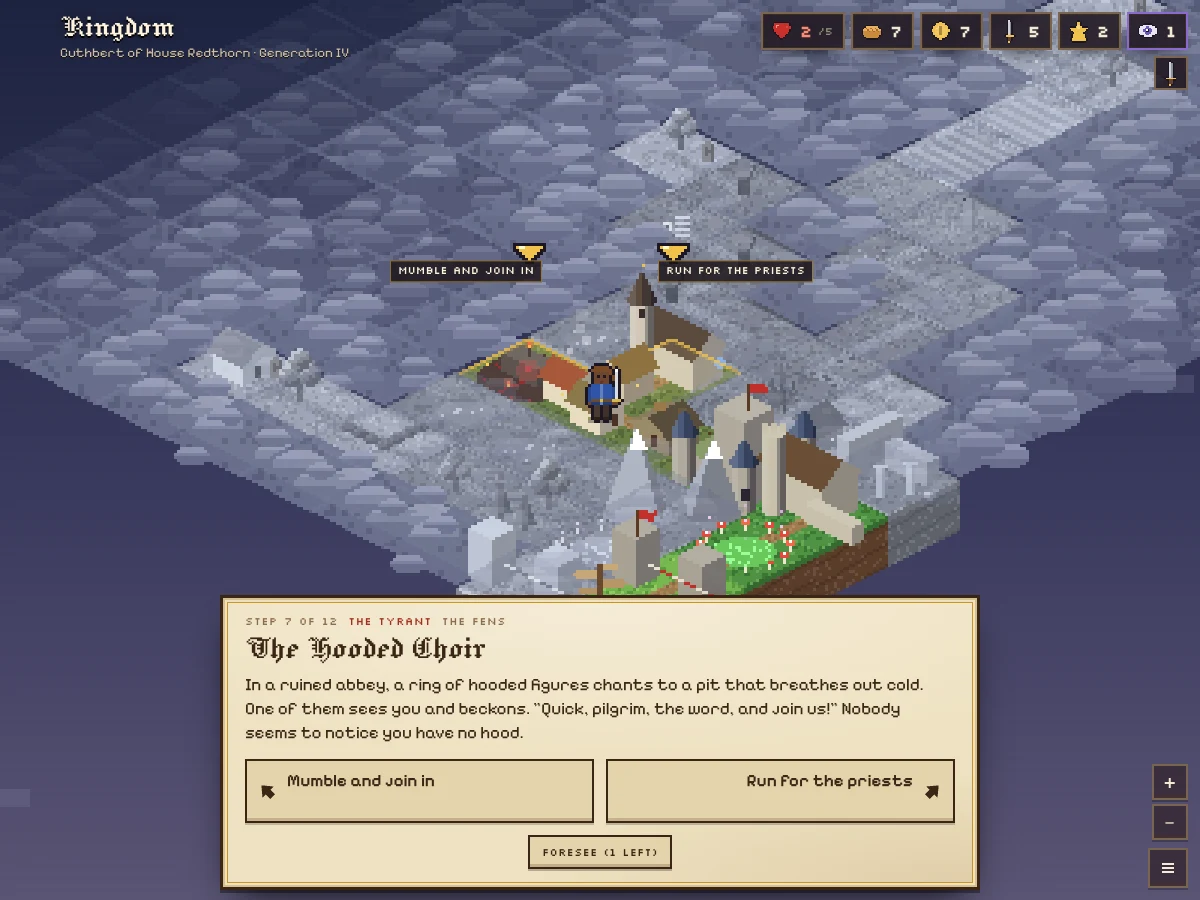
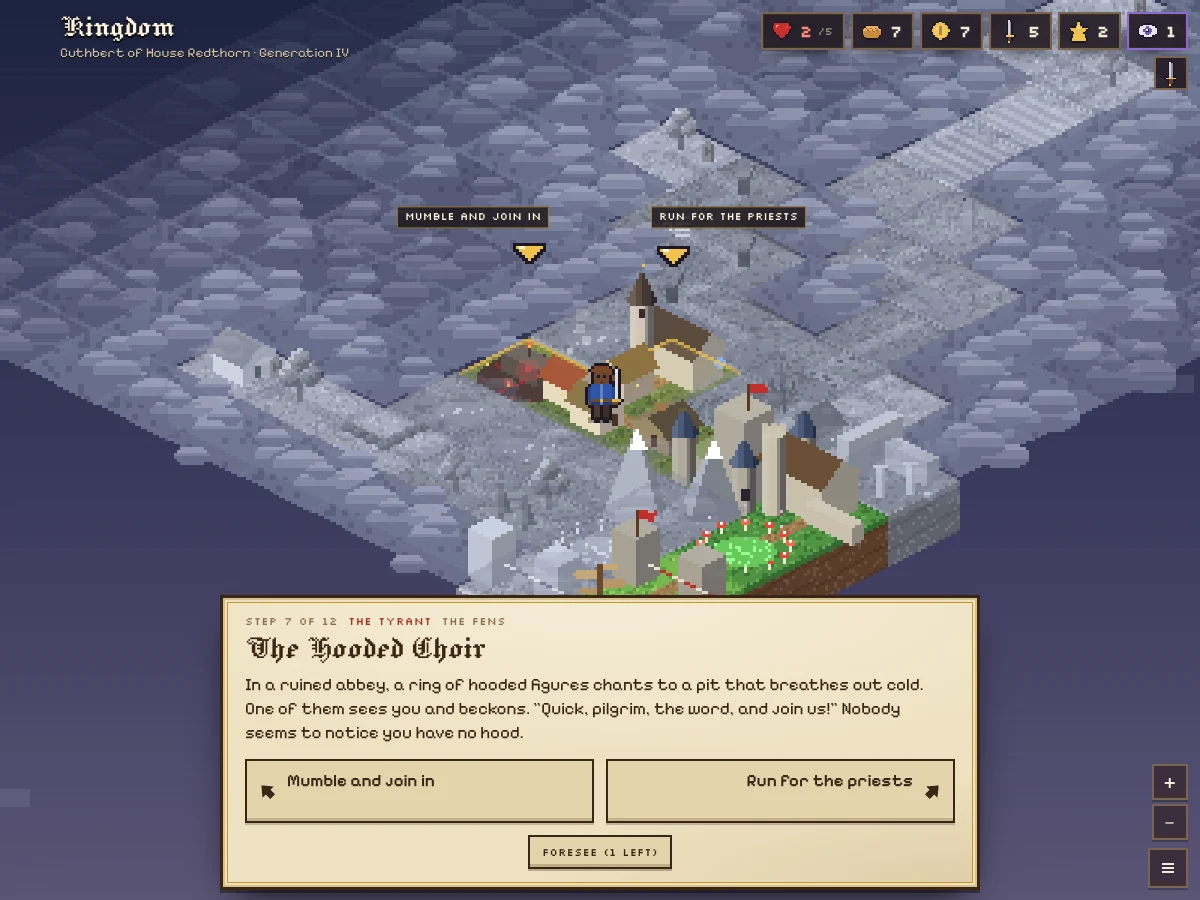
Kingdom: labels above their arrows, nothing lost to a refresh, foresight asks first, no page zoom
- The labels over the two ways ahead covered the lower half of their yellow
  arrows, and all of them when zoomed out. Now each hangs just above its
  arrow at every zoom, with the arrow under its inner end, and drops just
  below it when zoomed so far in that there's no room above. On a phone a
  long label wraps within its half of the screen, lines hugging its arrow,
  instead of running into the other: before, the two labels overlapped in
  39 of the 169 events on a 375px-wide phone, and in 121 on a 320px one.
- Saving happens the moment anything changes, not after the animation that
  follows, so neither a refresh nor a crash loses a step. A life that has
  ended stays saved until the Tome has taken it in: before, a refresh on the
  death screen or during the crowning lost that life (no Tome entry, nothing
  inherited, no crown) and the same heir set out again from the crossroads.
  The screens after a choice come back too: a fight not yet rolled, with the
  same dice to come; what happened; a herald's card; the crowning, from the
  start. A walkthrough cut short starts again, and a shop keeps its wares.
- Tapping foresight's eye in the stats used to spend one straight away. Now
  it says what foresight is and offers a Foresee button that spends one, or
  says why there's nothing to spend it on. The Foresee button under the
  choices and the F key work as before.
- The page already refused to zoom (the viewport tag, panning only, Safari's
[…]

Changed region(s): [[0.5242, 0.2178, 0.6783, 0.3422], [0.3083, 0.2178, 0.4625, 0.3422]]

diff --git a/kingdom/main.js b/kingdom/main.js
@@ -32,11 +32,14 @@ const SHOP_NAME = { market: 'The Market', smith: 'The Smithy', temple: 'The Temp
 const FATE_WORD = { killed: 'Slain', starved: 'Starved', broke: 'Ruined', reaper: 'Taken', lost: 'Uncrowned', crowned: 'Crowned' };
 
 /* ---------- saving ---------- */
-let house, life, ui = { tut: {}, sound: true, music: true };
+// Saved the moment anything changes, so a refresh or a crash loses nothing: the house; the life, even once it's over
+// and its ending is still playing (the house only takes it into the Tome at the end of that); and, while the screens
+// that follow a choice are still up (a fight, what happened, a herald), that choice's result, so they come back.
+let house, life, pending = null, ui = { tut: {}, sound: true, music: true };
 function load() { try { const raw = localStorage.getItem(KEY); return raw ? JSON.parse(raw) : null; } catch { return null; } }
 function save() {
   if (DEMO) return;
-  try { localStorage.setItem(KEY, JSON.stringify({ v: 1, house, life: life && !life.fate ? life.toJSON() : null, ui })); } catch { /* storage full or blocked: it just won't keep */ }
+  try { localStorage.setItem(KEY, JSON.stringify({ v: 1, house, life: life ? life.toJSON() : null, pending, ui })); } catch { /* storage full or blocked: it just won't keep */ }
 }
 
 /* ---------- the map ---------- */
@@ -57,7 +60,7 @@ let shown = {};
 function stat(id, value, extra = '', cls = '') {
   const el = document.createElement(id === 'sight' ? 'button' : 'div');
   el.className = 'chip leather' + (cls ? ' ' + cls : ''); el.dataset.stat = id;
-  if (id === 'sight') { el.type = 'button'; el.onclick = () => foresee(); }
+  if (id === 'sight') el.type = 'button';   // its tip has the button that spends one (see tipOn)
   el.append(icon(id === 'hp' ? 'hp' : id, 1.5));
   const b = document.createElement('b'); b.textContent = value; el.append(b);
   if (extra) { const s = document.createElement('small'); s.textContent = extra; el.append(s); }
@@ -78,7 +81,7 @@ function renderHUD(anim = true) {
   st.append(stat('renown', life.renown));
   if (life.phase === 'succession') st.append(stat('claim', life.claim, '', 'claim' + (life.claim <= 1 ? ' low' : '')));
   const sight = stat('sight', life.sight);
-  sight.disabled = !(life.sight > 0 && life.cur && !life.cur.omens && mode === 'event');
+  sight.classList.toggle('off', !canForesee());
   st.append(sight);
   if (anim) for (const [k, v] of Object.entries(now)) {
     const was = shown[k];
@@ -105,15 +108,30 @@ function renderHUD(anim = true) {
   requestAnimationFrame(measure);
 }
 const newBits = new Set();
-// Tooltips for the stats and the bag, on hover or a tap.
-let tipFor = null;
+// Tooltips for the stats and the bag: on hover, or pinned open by a tap or a click. Foresight's, pinned, has the button
+// that spends one, so tapping the eye to see what it is never spends it by itself.
+let tipFor = null, tipPinned = false;
 function tipOn(el, name, blurb, kind = '') {
-  const show = () => { const t = $('tip'); t.innerHTML = `<b>${esc(name)}</b>${kind ? `<i>${esc(kind)}</i>` : ''}${esc(blurb)}`; t.hidden = false; const r = el.getBoundingClientRect(); const w = t.offsetWidth; t.style.left = clamp(r.left + r.width / 2 - w / 2, 8, innerWidth - w - 8) + 'px'; t.style.top = (r.bottom + 8) + 'px'; tipFor = el; };
-  el.addEventListener('pointerenter', e => { if (e.pointerType === 'mouse') show(); });
-  el.addEventListener('pointerleave', () => { $('tip').hidden = true; });
-  el.addEventListener('click', () => { if (el.dataset.stat === 'sight' && !el.disabled) return; if (tipFor === el && !$('tip').hidden) { $('tip').hidden = true; } else show(); });
+  const show = pin => {
+    const t = $('tip'), sight = pin && el.dataset.stat === 'sight';
+    const more = !sight ? '' : canForesee() ? `<button type="button" class="btn go" data-act="spend-sight">Foresee (${life.sight} left)</button>`
+      : `<small>${life.sight < 1 ? 'You have none left.' : life.cur?.omens ? 'You have foreseen this choice already.' : 'Spend it when a choice is in front of you.'}</small>`;
+    t.innerHTML = `<b>${esc(name)}</b>${kind ? `<i>${esc(kind)}</i>` : ''}${esc(blurb)}${more}`;
+    t.classList.toggle('act', !!t.querySelector('button'));
+    t.querySelector('[data-act="spend-sight"]')?.addEventListener('click', foresee);
+    t.hidden = false; tipFor = el; tipPinned = pin;
+    const r = el.getBoundingClientRect(), w = t.offsetWidth;
+    t.style.left = clamp(r.left + r.width / 2 - w / 2, 8, innerWidth - w - 8) + 'px'; t.style.top = (r.bottom + 8) + 'px';
+  };
+  el.addEventListener('pointerenter', e => { if (e.pointerType === 'mouse' && (!tipPinned || $('tip').hidden)) show(false); });
+  el.addEventListener('pointerleave', () => { if (!tipPinned) $('tip').hidden = true; });
+  el.addEventListener('click', e => {
+    if (tipFor === el && tipPinned && !$('tip').hidden) { $('tip').hidden = true; return; }
+    show(true);
+    if (e.detail === 0) $('tip').querySelector('button')?.focus();   // from the keyboard: on to its button
+  });
 }
-addEventListener('pointerdown', e => { if (tipFor && !tipFor.contains(e.target)) $('tip').hidden = true; }, true);
+addEventListener('pointerdown', e => { if (tipFor && !tipFor.contains(e.target) && !$('tip').contains(e.target)) $('tip').hidden = true; }, true);
 
 /* ---------- the story panel ---------- */
 let mode = 'title';
@@ -160,7 +178,9 @@ function optionDetail(dir) {
 }
 function renderEvent() {
   mode = 'event';
+  const drawn = !life.cur;
   life.present();
+  if (drawn || pending) { pending = null; save(); }
   const ev = life.event, cur = life.cur, lock = life.locks();
   const side = dir => {
     const opt = dir === 'L' ? ev.left : ev.right, hidden = cur.hidden === dir;
@@ -187,7 +207,9 @@ function renderEvent() {
   renderHUD(false);
   coachFor('event');
 }
+const canForesee = () => !!life && life.sight > 0 && !!life.cur && !life.cur.omens && mode === 'event';
 function foresee() {
+  $('tip').hidden = true;
   if (mode !== 'event' || !life.foresee()) return;
   sound.relic();
   save();
@@ -206,8 +228,9 @@ async function choose(dir) {
   for (const b of panel.querySelectorAll('.choice')) { b.disabled = true; b.classList.add(b.dataset.dir === dir ? 'picked' : 'faded'); }
   panel.querySelector('.tools')?.remove();
   if (coach.g) coach.stop();
-  const before = snapshot();
   const res = life.choose(dir);
+  pending = { res };
+  save();
   // keep just the way taken lit while your heir walks there
   if (view.opts) { const keep = view.opts[dir]; keep.t = 1; keep.hidden = false; keep.theme = res.tile; view.opts = { [dir]: keep }; }
   view.hover = null;
@@ -220,9 +243,8 @@ async function choose(dir) {
   if (life.phase === 'procession' || res.crowned) crowdAround(life.row, life.col);
   if (res.crowned) { view.burst(life.row, life.col, 'gold'); view.burst(life.row, life.col, 'gold'); sound.relic(); }
   busy = false;
-  save();
-  if (res.fight) return battle(res, before);
-  outcome(res, before);
+  if (res.fight) return battle(res);
+  outcome(res);
 }
 function stride() {
   if (mode !== 'event') return;
@@ -230,11 +252,12 @@ function stride() {
   const s = view.hover || free;
   const res = life.stride(life.locks()[s] ? free : s);
   if (!res) return;
+  pending = { res };
+  save();
   mode = 'busy';
   sound.whoosh(0, .8);
-  view.walk(res.dir, () => { view.clearOptions(); view.sync(life); view.focus(life.row, life.col); save(); outcome(res, snapshot()); }, .35);
+  view.walk(res.dir, () => { view.clearOptions(); view.sync(life); view.focus(life.row, life.col); outcome(res); }, .35);
 }
-const snapshot = () => ({ hp: life.hp, food: life.food, gold: life.gold });
 
 // What happened, in words and little chips.
 function fxChips(raw) {
@@ -294,16 +317,16 @@ function playFx(res) {
   if (bless) setTimeout(() => sound.bless(), 250);
   if (curse) { setTimeout(() => sound.curse(), 200); view.burst(life.row, life.col, 'dark'); }
 }
-function outcome(res) {
+function outcome(res, again = false) {
   mode = 'outcome';
-  playFx(res);
+  if (!again) playFx(res);
   const intro = res.intro ? `<span class="intro">${esc(res.intro)}</span> ` : '';
   const title = res.poor ? `${esc(res.title)}` : esc(res.title);
   const next = res.death ? 'What became of them' : res.summons ? 'A herald comes' : res.crowned ? 'To the throne' : res.shop ? `Go into ${SHOP_NAME[res.shop].replace(/^The /, 'the ')}` : 'Onward';
   setPanel(`${kickerDone()}<h2>${title}</h2><p class="outcome">${intro}${esc(res.text)}</p><div class="fx">${fxChips([...res.fx, ...res.upkeep])}</div>
     <div class="row">${res.revived ? '<span class="hint">The Phoenix Feather burns to ash, and you rise.</span>' : ''}${life.canRewind() ? '<button type="button" class="btn" data-act="rewind">Turn back time</button>' : ''}<button type="button" class="btn go" data-act="next">${next} →</button></div>`);
   hydrateIcons(panel);
-  if (res.revived) { sound.relic(); view.burst(life.row, life.col, 'gold'); }
+  if (res.revived && !again) { sound.relic(); view.burst(life.row, life.col, 'gold'); }
   panel.querySelector('[data-act="next"]').onclick = () => { if (guideAt >= 0) guideEnd(); afterOutcome(res); };
   panel.querySelector('[data-act="rewind"]')?.addEventListener('click', rewind);
   renderHUD();
@@ -367,6 +390,7 @@ const cap = s => s ? s[0].toUpperCase() + s.slice(1) : s;
 async function fightRoll(res) {
   if (mode !== 'battle') return;
   mode = 'busy';
+  if (pending) { pending.fought = true; save(); }
   if (coach.g) coach.stop();
   const F = res.fight;
   panel.querySelector('.row').innerHTML = '';
@@ -397,6 +421,7 @@ async function fightRoll(res) {
 /* ---------- shops ---------- */
 function shop() {
   mode = 'shop';
+  if (pending) { pending = null; save(); }
   const S = life.shop;
   const ware = w => {
     const can = !w.sold && life.gold >= w.price;
@@ -450,7 +475,7 @@ function fate() {
   const inh = inheritanceOf(life);
   const entry = endLife(house, life);
   const heir = house.heir;
-  life = null;
+  life = null; pending = null;
   save();
   view.foeLeaves(); view.clearOptions(); view.hero = null; view.setGraves();
   view.burst(entry.fate.row, entry.fate.col, 'dark');
@@ -495,6 +520,7 @@ function crowdAround(row, col) {
 // and the crossroads.
 async function coronation() {
   mode = 'crown';
+  pending = null; save();   // a refresh from here on starts the ceremony again
   view.clearOptions(); view.foeLeaves();
   hidePanel();
   $('hud').hidden = true;
@@ -611,13 +637,29 @@ function setOut(o = {}) {
   view.focus(0, 0, true);
   shown = {};
   sound.pick();
-  save();
   $('sub').textContent = `${life.heir.name} of House ${house.names.house} · Generation ${roman(life.gen)}`;
-  if (o.tutorial) { life.cur = { id: TUTORIAL_EVENT, hidden: null, omens: null }; life.used.push(TUTORIAL_EVENT); }
+  if (o.tutorial) { life.cur = { id: TUTORIAL_EVENT, hidden: null, omens: null }; life.used.push(TUTORIAL_EVENT); guideAt = 0; }   // (keeps the ordinary tips out of its way)
+  save();
   renderEvent();
   if (o.tutorial) guideStart();
 }
-function resumeMode() { if (life && !life.fate) { if (life.shop) shop(); else renderEvent(); } else if (!life) heirCard(); }
+// Back to wherever the life had got to: the screens after its last choice, if they were still up; the shop it was in;
+// or the choice in front of it. After a refresh (boot), also its ending, if it had one, and a walkthrough that hadn't
+// finished.
+function resumeMode(boot = false) {
+  if (!life) return heirCard();
+  renderHUD(false);
+  const rewalk = boot && !ui.tut.choose && (pending ? pending.res.eventId : life.cur?.id) === TUTORIAL_EVENT;
+  if (rewalk) guideAt = 0;   // keeps the ordinary tips out of its way; outcome() takes it on to its last word
+  if (pending) {
+    try { return pending.res.fight && !pending.fought ? battle(pending.res) : outcome(pending.res, true); }
+    catch (e) { console.warn('Could not show the last choice again:', e); pending = null; }
+  }
+  if (life.fate) { if (boot) life.fate.kind === 'crowned' ? coronation() : fate(); return; }   // else it's playing already
+  if (life.shop) return shop();
+  renderEvent();
+  if (rewalk) guideStart();
+}
 
 /* ---------- the tome ---------- */
 function armsCanvas(arms, s = 3) {
@@ -709,12 +751,12 @@ function titleScreen() {
   const btns = [];
   const fresh = introDue() && !life && !house.lineage.length;
   if (fresh) btns.push('<button type="button" class="btn go" data-act="story">Begin the story</button>', '<button type="button" class="btn ghost" data-act="nostory">Skip the intro</button>');
-  else if (life && !life.fate) btns.push(`<button type="button" class="btn go" data-act="continue">Continue ${esc(life.heir.name)}’s road</button>`);
+  else if (life) btns.push(`<button type="button" class="btn go" data-act="continue">Continue ${esc(life.heir.name)}’s road</button>`);
   else btns.push(`<button type="button" class="btn go" data-act="begin">${house.lineage.length ? 'The next heir' : 'Begin'}</button>`);
   if (house.lineage.length) btns.push('<button type="button" class="btn" data-act="tome">The Tome</button>');
   $('titleButtons').innerHTML = btns.join('');
   $('titleHouse').textContent = house.lineage.length ? `House ${house.names.house} of ${house.names.kingdom} · ${house.lineage.length} generation${house.lineage.length === 1 ? '' : 's'}${house.crowns ? ` · ${house.crowns} crowned` : ''}` : `House ${house.names.house} of ${house.names.kingdom}`;
-  $('titleButtons').querySelector('[data-act="continue"]')?.addEventListener('click', () => { start(); $('sub').textContent = `${life.heir.name} of House ${house.names.house} · Generation ${roman(life.gen)}`; resumeMode(); });
+  $('titleButtons').querySelector('[data-act="continue"]')?.addEventListener('click', () => { start(); $('sub').textContent = `${life.heir.name} of House ${house.names.house} · Generation ${roman(life.gen)}`; resumeMode(true); });
   $('titleButtons').querySelector('[data-act="begin"]')?.addEventListener('click', () => { start(); heirCard(); });
   $('titleButtons').querySelector('[data-act="tome"]')?.addEventListener('click', () => showTome());
   $('titleButtons').querySelector('[data-act="story"]')?.addEventListener('click', () => playIntro({ first: true }));
@@ -909,12 +951,38 @@ function updateLabels() {
     let el = tags[k];
     if (!el) { el = tags[k] = document.createElement('div'); $('labels').append(el); }
     el.className = 'tag' + w.cls + (k === 'L' ? ' left' : k === 'R' ? ' right' : ''); if (el.textContent !== w.text) el.textContent = w.text;
-    const p = view.screenOfCell(w.row, w.col, 30), wd = el.offsetWidth;
-    let x = p.x + (k === 'L' ? 14 : k === 'R' ? -14 : 0);
+    if (k === 'g') {
+      const p = view.screenOfCell(w.row, w.col, 30), wd = el.offsetWidth;
+      el.style.left = Math.round(clamp(p.x, wd / 2 + 6, innerWidth - wd / 2 - 6)) + 'px'; el.style.top = Math.round(p.y) + 'px';
+      continue;
+    }
+    // a way's label sits just above its chevron, its inner end reaching just past it, and grows away from the other
+    // way's; if the screen's too narrow for it to fit that way, it wraps rather than run into the other label
+    const p = view.aboveMarker(w.row, w.col), reach = 7 * view.P / view.dpr;
+    let x = p.x + (k === 'L' ? reach : -reach);
+    fitTag(el, Math.round(Math.max(120, k === 'L' ? x - 6 : innerWidth - 6 - x)));
+    const wd = el.offsetWidth, ht = el.offsetHeight;
     // keep it on the screen: a label that grows left can't start before the edge, nor one that grows right end past it
-    if (k === 'L') x = clamp(x, wd + 6, innerWidth - 6); else if (k === 'R') x = clamp(x, 6, innerWidth - wd - 6); else x = clamp(x, wd / 2 + 6, innerWidth - wd / 2 - 6);
-    el.style.left = Math.round(x) + 'px'; el.style.top = Math.round(p.y) + 'px';
+    x = k === 'L' ? clamp(x, wd + 6, innerWidth - 6) : clamp(x, 6, innerWidth - wd - 6);
+    // zoomed right in, with no room above its chevron, it hangs below it instead
+    let y = p.y - 3;
+    if (y - ht < view.inset.top + 4) y = view.belowMarker(w.row, w.col).y + 3 + ht;
+    el.style.left = Math.round(x) + 'px'; el.style.top = Math.round(y) + 'px';
   }
+}
+
+// A label that has to wrap stays as wide as it was allowed to be, however short its lines come out: this fits it to its
+// longest line.
+function fitTag(el, max) {
+  const key = el.textContent + '|' + max;
+  if (el.dataset.fit === key) return;
+  el.dataset.fit = key;
+  el.style.width = ''; el.style.maxWidth = max + 'px';
+  const range = document.createRange(); range.selectNodeContents(el);
+  const lines = [...range.getClientRects()];
+  if (lines.length < 2) return;
+  const cs = getComputedStyle(el), edges = ['paddingLeft', 'paddingRight', 'borderLeftWidth', 'borderRightWidth'].reduce((n, k) => n + parseFloat(cs[k]), 0);
+  el.style.width = Math.ceil(Math.max(...lines.map(r => r.width)) + edges + 1) + 'px';
 }
 
 /* ---------- touching the map ---------- */
@@ -962,7 +1030,10 @@ const up = e => {
 };
 cv.addEventListener('pointerup', up); cv.addEventListener('pointercancel', up);
 cv.addEventListener('wheel', e => { e.preventDefault(); if (!introOn) view.setZoom(view.zoomStep + (e.deltaY < 0 ? 1 : -1)); }, { passive: false });
+// The page never zooms, whatever the browser makes of the viewport tag: Safari's own pinch gestures are cancelled, and
+// so is any two-finger touch. (The map's pinch runs on pointer events, which this leaves alone.)
 for (const t of ['gesturestart', 'gesturechange', 'gestureend']) document.addEventListener(t, e => e.preventDefault(), { passive: false });
+document.addEventListener('touchmove', e => { if (e.touches.length > 1) e.preventDefault(); }, { passive: false });
 $('zoomIn').onclick = () => view.setZoom(view.zoomStep + 1);
 $('zoomOut').onclick = () => view.setZoom(view.zoomStep - 1);
 
@@ -991,7 +1062,7 @@ $('replayTut').onclick = () => { ui.tut = {}; save(); menu(false); toast('The ti
 $('replayIntro').onclick = () => { menu(false); sound.ensure(); playIntro(); };
 $('newHouse').onclick = () => {
   if (!confirm('Start a new house? The Tome, the vault and every bloodline power of this one will be lost.')) return;
-  setHouse(newHouse()); life = null; save(); menu(false); closeCard(); $('tomeBox').hidden = true; titleScreen();
+  setHouse(newHouse()); life = null; pending = null; save(); menu(false); closeCard(); $('tomeBox').hidden = true; titleScreen();
 };
 
 function toast(text) {
@@ -1027,6 +1098,9 @@ function boot() {
   if (saved?.house) { try { setHouse(saved.house); } catch (e) { console.warn('Could not load the house:', e); } }
   if (!house) setHouse(newHouse());
   if (saved?.life && !DEMO) { try { life = resumeLife(house, saved.life); } catch (e) { console.warn('Could not load the life:', e); life = null; } }
+  // the screens after the last choice, if they were still up (and are about this life, where it now stands)
+  const p = saved?.pending;
+  if (life && p?.res && p.res.row === life.row && p.res.col === life.col) pending = p;
   sw.setAttribute('aria-checked', ui.sound); mw.setAttribute('aria-checked', ui.music);
   sound.enabled = ui.sound;
   if (DEMO) return demo();
@@ -1092,3 +1166,4 @@ boot();
 measure();
 requestAnimationFrame(loop);
 addEventListener('visibilitychange', () => { if (document.visibilityState === 'hidden') save(); });
+addEventListener('pagehide', save);

diff --git a/kingdom/index.html b/kingdom/index.html
@@ -2,7 +2,7 @@
 <html lang="en">
 <head>
 <meta charset="utf-8">
-<meta name="viewport" content="width=device-width, initial-scale=1, maximum-scale=1, user-scalable=no, viewport-fit=cover">
+<meta name="viewport" content="width=device-width, initial-scale=1, minimum-scale=1, maximum-scale=1, user-scalable=no, viewport-fit=cover">
 <title>Kingdom</title>
 <link rel="preconnect" href="https://fonts.googleapis.com">
 <link rel="preconnect" href="https://fonts.gstatic.com" crossorigin>
@@ -14,7 +14,9 @@
     --gold: #c8962a; --gold-hi: #f2c24c; --red: #a3301f; --good: #3f7a2c; --bad: #a3301f; --good-l: #8fe07a; --bad-l: #ff8a70; --magic: #6a4aa8;
   }
   html, body { height: 100%; margin: 0; }
-  html, body { touch-action: pan-x pan-y; -webkit-text-size-adjust: 100%; text-size-adjust: 100%; }
+  /* The page itself never zooms, in or out (pinching the map zooms the map), bounces or pulls to refresh: it only pans, so
+     the Tome and the menus still scroll. Browsers that zoom whatever the viewport tag says are stopped in main.js. */
+  html, body { touch-action: pan-x pan-y; overscroll-behavior: none; -webkit-text-size-adjust: 100%; text-size-adjust: 100%; }
   body { color: var(--light); background: var(--night); font: 400 16px/1.4 'Pixelify Sans', ui-monospace, monospace; overflow: hidden; -webkit-font-smoothing: antialiased;
     -webkit-user-select: none; user-select: none; -webkit-tap-highlight-color: transparent; }
   #c { position: fixed; inset: 0; width: 100%; height: 100%; display: block; touch-action: none; outline: none; cursor: grab; }
@@ -65,7 +67,7 @@
   @keyframes float { from { opacity: 0; transform: translate(-50%, -6px); } 15% { opacity: 1; transform: translate(-50%, 0); } 75% { opacity: 1; } to { opacity: 0; transform: translate(-50%, 6px); } }
   button.chip { cursor: pointer; border-color: #8a6ad0; }
   button.chip:hover { background: rgba(60, 40, 80, .92); }
-  button.chip:disabled { cursor: default; opacity: .55; border-color: var(--edge); }
+  button.chip.off { opacity: .55; border-color: var(--edge); }   /* foresight, when there's nothing to spend it on: a tap still explains it */
   .chip.claim { border-color: var(--gold); }
   .bag { display: flex; flex-wrap: wrap; justify-content: flex-end; gap: 4px; max-width: min(520px, calc(100vw - 180px)); }
   .bag button { width: 34px; height: 34px; padding: 0; display: grid; place-items: center; border: 2px solid var(--edge); background: var(--leather); cursor: pointer; position: relative; }
@@ -77,12 +79,15 @@
   .tip { position: fixed; z-index: 60; max-width: 260px; padding: 8px 10px; font-size: 14px; line-height: 1.35; pointer-events: none; }
   .tip b { display: block; font: 400 12px/1.2 Silkscreen, monospace; margin-bottom: 3px; color: var(--gold-hi); }
   .tip i { display: block; font-style: normal; font-size: 12px; color: var(--light-3); margin-bottom: 3px; }
+  .tip small { display: block; margin-top: 6px; font-size: 12px; color: var(--light-3); }
+  .tip.act { pointer-events: auto; } .tip .btn { display: flex; box-sizing: border-box; width: 100%; margin: 9px 0 1px; }
 
   /* labels over the ways ahead */
   .labels { position: fixed; inset: 0; pointer-events: none; z-index: 2; }
-  .tag { position: absolute; transform: translate(-50%, -100%); padding: 3px 7px 4px; font: 400 11px/1.15 Silkscreen, monospace; white-space: nowrap; color: #fff4dc;
+  .tag { position: absolute; transform: translate(-50%, -100%); box-sizing: border-box; padding: 3px 7px 4px; font: 400 11px/1.15 Silkscreen, monospace; white-space: nowrap; color: #fff4dc;
     background: rgba(26, 18, 22, .82); border: 1px solid rgba(242, 194, 76, .55); transition: opacity .25s; }
-  .tag.left { transform: translate(-100%, -100%); } .tag.right { transform: translate(0, -100%); }
+  .tag.left, .tag.right { width: max-content; white-space: normal; text-wrap: balance; }   /* wraps only when it must (see updateLabels) */
+  .tag.left { transform: translate(-100%, -100%); text-align: right; } .tag.right { transform: translate(0, -100%); }
   .tag.hot { border-color: var(--gold-hi); background: rgba(70, 44, 16, .92); }
   .tag.grave { color: var(--light-2); border-color: rgba(255, 255, 255, .25); font-size: 10px; }
   .tag.locked { opacity: .55; border-color: rgba(184, 122, 255, .6); text-decoration: line-through; }

diff --git a/kingdom/render.js b/kingdom/render.js
@@ -68,6 +68,10 @@ export class View {
     const w = worldOf(row, col), c = this.world?.at(row, col);
     return this.toScreen(w.x, w.y + 12 - (c?.h || 0) * EL - lift);
   }
+  // Where a way's label hangs: a pixel above its chevron (see marker), even at the top of the chevron's bob; or, when
+  // there's no room above it, a pixel below it, even at the bottom.
+  aboveMarker(row, col) { return this.screenOfCell(row, col, 47); }
+  belowMarker(row, col) { return this.screenOfCell(row, col, 32); }
   origin() {
     // the camera's point sits in the middle of the part of the screen that isn't covered by the panels
     const top = this.inset.top * this.dpr / this.P, bottom = this.inset.bottom * this.dpr / this.P;
